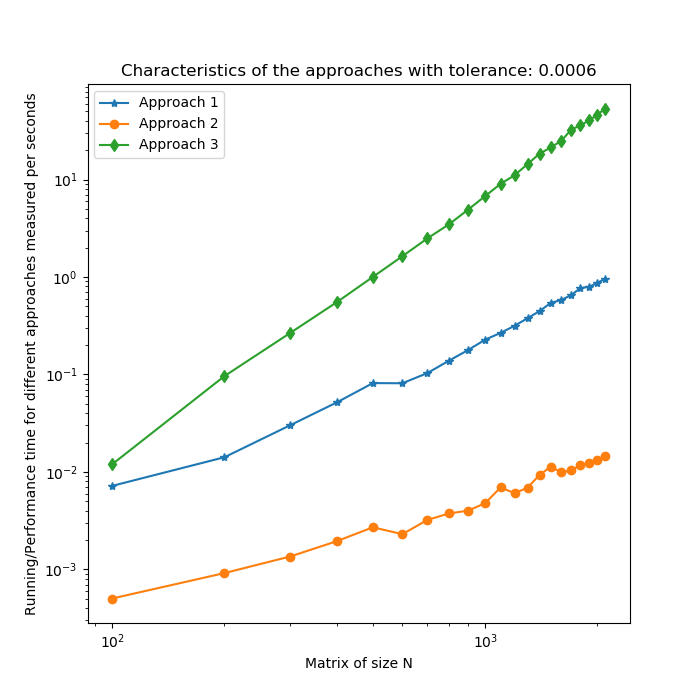
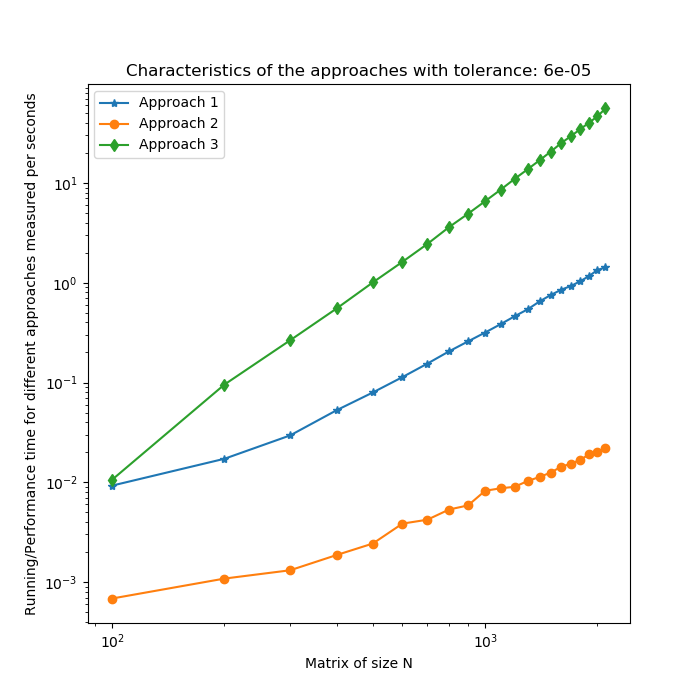
Approach 1 changed to function working

diff --git a/A2.py b/A2.py
@@ -9,6 +9,10 @@ ITERATIONS_UPPER_LIMIT = 10000
 MATRIX_SIZE_N = [x for x in range(100, 2200, 100)]
 DefaultTol = 10**-6  # Default value
 POWER_METHOD_CONVERGENCE = False
+#Take different time
+rows, cols = (3,1)
+Time = [[0 for i in range(cols)] for j in range(rows)] 
+
 
 # Approach 1 – The Power Method with For Loops
 
@@ -64,7 +68,36 @@ def Print(strings):
     print(strings)
     print('-------------------------------------------------------------------')
 
-#def Approach1():
+def Approach1(a): 
+    eigenvector = [[1] for i in range(len(a))]  # Initial value of eigenvector
+    time1 = time.time()
+    iterations_counter = 0
+    while True:
+        dot_product = VectorProduct(a, eigenvector)
+        eigenvalue = L2Norm(dot_product)
+        new_eigenvector = ScalarDivision(dot_product, eigenvalue)
+        difference = L2Norm(VectorSubtract(eigenvector, new_eigenvector))
+        eigenvector = new_eigenvector
+
+        iterations_counter += 1
+        if difference < Tolerance:
+            time2 = time.time()
+            Print(f'Approach 1:\n'
+                f'Number of elements in matrix:{MATRIX_SIZE_N[i]}\n'
+                        f'Number of iterations with approach 1: {iterations_counter}\n'
+                        f'The l2 norm of difference between last two successive eigenvectors is: {difference}\n'
+                        f'Eigenvalue is: {eigenvalue}\n'
+                        f"Running time with 'Approach 1' is:{time2-time1} seconds!")
+            Time[0].append(time2-time1)
+            break
+        elif iterations_counter > ITERATIONS_UPPER_LIMIT:
+            Print(
+                f'Number of elements in matrix:{MATRIX_SIZE_N[i]}\n'
+                f"The power method did not converge after:{ITERATIONS_UPPER_LIMIT} iterations! in 'Approach 1'\n"
+                f"Running time with 'Approach 1' was:{time2-time1} seconds!")
+            Time[0].append(math.nan)
+            break
+
 
 # User input for tolerance
 while True:
@@ -77,57 +110,13 @@ while True:
         Tolerance = DefaultTol
         break
 
-time_record_approach_1 = []
-time_record_approach_2 = []
-time_record_approach_3 = []
-rows, cols = (3,1)
-Time = [[0 for i in range(cols)] for j in range(rows)] 
-#Time = [[1]*cols]*rows
-print(Time)
-print("Length of Matrix_size =",(len(MATRIX_SIZE_N)))
-print("Matrix =",(MATRIX_SIZE_N))
+#Approach1
+
 for i in range(len(MATRIX_SIZE_N)):
     a = [[random.random() for i in range(MATRIX_SIZE_N[i])]
          for j in range(MATRIX_SIZE_N[i])]
-    eigenvector = [[1] for i in range(len(a))]  # Initial value of eigenvector
-    print ("Approch1 = ",time_record_approach_1)
-    print ("Approch2 = ",time_record_approach_2)
-    print ("Approch3 = ",time_record_approach_3)
-    print(Time)
-    print ("The data in first row = ",Time[0])
-    print ("The data in second row = ",Time[1])
-    print ("The data in third row = ",Time[2])      
-    time1 = time.time()
-    iterations_counter = 0
-    while True:
-        dot_product = VectorProduct(a, eigenvector)
-        eigenvalue = L2Norm(dot_product)
-        new_eigenvector = ScalarDivision(dot_product, eigenvalue)
-        difference = L2Norm(
-            VectorSubtract(eigenvector, new_eigenvector))
-        eigenvector = new_eigenvector
-
-        iterations_counter += 1
-        if difference < Tolerance:
-            time2 = time.time()
-            Print(f'Number of elements in matrix:{MATRIX_SIZE_N[i]}\n'
-                        f'Number of iterations with approach 1: {iterations_counter}\n'
-                        f'The l2 norm of difference between last two successive eigenvectors is: {difference}\n'
-                        f'Eigenvalue is: {eigenvalue}\n'
-                        f"Running time with 'Approach 1' is:{time2-time1} seconds!")
-            time_record_approach_1.append(time2-time1)
-            Time[0].append(time2-time1)
-            break
-        elif iterations_counter > ITERATIONS_UPPER_LIMIT:
-            time2 = time.time()
-            Print(
-                f'Number of elements in matrix:{MATRIX_SIZE_N[i]}\n'
-                f"The power method did not converge after:{ITERATIONS_UPPER_LIMIT} iterations! in 'Approach 1'\n"
-                f"Running time with 'Approach 1' was:{time2-time1} seconds!")
-            time_record_approach_1.append(math.nan)
-            Time[0].append(math.nan)
-            break
-
+    Approach1(a)
+    
 # ------------------------------------------------------------------------------------------------------
 # Approach 2 – The Power Method with NumPy Functions
 # To convert existing data to ndarray type
@@ -142,18 +131,15 @@ for i in range(len(MATRIX_SIZE_N)):
         new_eigenvector_np = dot_product_np / eigenvalue_np
         difference_np = L2Norm(eigenvector_np - new_eigenvector_np)
         eigenvector_np = new_eigenvector_np
-
-
-
         iterations_counter += 1
         if difference_np < Tolerance:
             time4 = time.time()
-            Print(f'Number of elements in matrix:{MATRIX_SIZE_N[i]}\n'
+            Print(f'Approach 2:\n'
+                f'Number of elements in matrix:{MATRIX_SIZE_N[i]}\n'
                         f'Number of iterations with approach 2: {iterations_counter}\n'
                         f'The l2 norm of difference between last two successive eigenvectors is: {difference_np}\n'
                         f'Eigenvalue is: {eigenvalue_np}\n'
                         f"Running time with 'Approach 2' is:{time4-time3} seconds!")
-            time_record_approach_2.append(time4-time3)
             Time[1].append(time4-time3)
 
             POWER_METHOD_CONVERGENCE = True
@@ -164,7 +150,6 @@ for i in range(len(MATRIX_SIZE_N)):
                 f'Number of elements in matrix:{MATRIX_SIZE_N[i]}\n'
                 f"The power method did not converge after:{ITERATIONS_UPPER_LIMIT} iterations! in 'Approach 2'\n"
                 f"Running time with 'Approach 2' was:{time4-time3} seconds!")
-            time_record_approach_2.append(math.nan)
             Time[1].append(math.nan)
             break
 
@@ -194,7 +179,6 @@ for i in range(len(MATRIX_SIZE_N)):
                     f'main array result is:{eigenvalue_places[0]}\n'
                     f'Running time with Approach 3 was:{time6-time5} seconds!')
         Time[2].append(time6-time5)
-        time_record_approach_3.append(time6-time5)
     else:
         Print(f'Number of elements in matrix:{MATRIX_SIZE_N[i]}\n'
                     f'Last calculated eigenvalue with Approach 1: {eigenvalue}\n'
@@ -203,17 +187,10 @@ for i in range(len(MATRIX_SIZE_N)):
                     # f'Real eigenvectors with Approach 3 are:\n{only_real_eigenvectors}\n'
                     f"Running time with 'Approach 3' was:{time6-time5} seconds!\n"
                     f'The power method did not converged though!')
-        time_record_approach_3.append(math.nan)
         Time[2].append(math.nan)
 Time[0].pop(0)
 Time[1].pop(0)
-Time[2].pop(0)
-print ("Approch1 = ",time_record_approach_1)
-print ("Approch2 = ",time_record_approach_2)
-print ("Approch3 = ",time_record_approach_3)
-print ("The data in first row = ",Time[0])
-print ("The data in second row = ",Time[1])
-print ("The data in third row = ",Time[2])        
+Time[2].pop(0)      
 # ------------------------------------------------------------------------------------------------------
 #  Performance characteristics of the approaches and result plotting
 plt.subplots(1, figsize=(7, 7))
